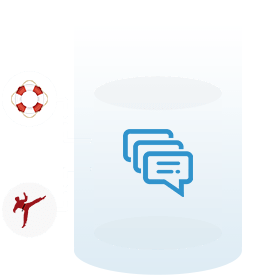
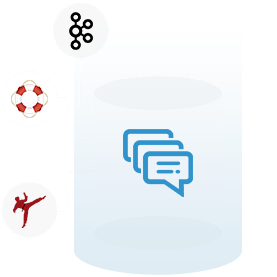
kafka changes added.

Changed region(s): [[0.231, 0.0289, 0.3466, 0.2022]]

diff --git a/en/message-queue-software/kafka/_index.md b/en/message-queue-software/kafka/_index.md
@@ -1,0 +1,29 @@
+---
+keywords: distributed message queue, open source message broker, message broker software, message queue software, best message queue, best message broker, queuing service
+title: Kafka | Open source distributed event streaming platform
+description: Kafka is an open source distributed real-time event streaming platform and a robust queue broker. It has the ability to handle a high volume of messages.
+singlepageh1title: Scala & Java based distributed event streaming platform
+singlepageh2title: Apache Kafka is an open source distributed event streaming platform. It is a robust queue broker and built as an internal messaging system developed by Linked-in
+Shortdescriptionlistingpage: Apache Kafka is a distributed message queue software written in Scala and Java languages. It is developed by Linked-in to handle 1.4 trillion messages in a day.
+linktitle: Kafka
+Imagetext: Free Message Queue Software
+draft: false
+weight: 1
+layout: "single"
+GithubLink: https://github.com/apache/kafka
+HomePage_TitleText: Simple and efficient open source task scheduler
+
+ListingPage_MenuImage_TitleText: Apache Kafka is an open source distributed event streaming platform
+ListingPage_MenuImage_AltText: Scala & Java based distributed event streaming platform
+ListingPage_Link_TitleText: Kafka is distributed event streaming platform to handle a high volume of messages. 
+
+SinglePage_HeaderImage_TitleText: Kafka  is an open source messaging system and a robust queue broker
+SinglePage_HeaderImage_AltText: Kafka  is an open source messaging system and a robust queue broker
+SinglePage_MenuImage_TitleText: Kafka  is an open source messaging system and a robust queue broker
+SinglePage_MenuImage_AltText: Kafka  is an open source messaging system and a robust queue broker
+
+---
+
+Kafka is an open source messaging system and a robust queue broker. It is distributed event streaming platform and has the ability to handle a high volume of messages. Kafka messages are stored on the disk and it allows you to send messages from one point to another seamlessly. Messages are replicated within the whole Kafka cluster to prevent unwanted operations from happening like any data loss. Kafka messaging platform built to handle real-time event streaming, pipe-lining and replaying of data for fast, scalable operations.
+
+Apache Kafka distributed message queue software is used by thousands of companies for high performance data pipelines and its integration with Apache Storm and Spark. Kafka offers high performance as compared to message and queue brokers like ActiveMQ and RabbitMQ etc. Apache Kafka is an alternative to a variety of enterprise messaging systems. It was built as an internal messaging system developed by Linked-in to handle 1.4 trillion messages in a day. It is a best and suitable platform for the implementation of Queues since it boosts performance by using sequential disk I/O operations. It is also a perfect choice for big data use cases because it can achieve high throughput with limited number of resources, i.e millions of messages per second. Kafka open source software has 19.4K GitHub stars and 10.3k GitHub forks.

diff --git a/en/message-queue-software/kafka/installation.md b/en/message-queue-software/kafka/installation.md
@@ -1,0 +1,41 @@
+---
+title: Installation Guide
+onpagelink: installation
+weight: 3
+
+---
+
+### **Installation Instructions**
+
+### Install Apache Kafka On Ubuntu
+
+This guide explains how to setup and Kafka. Below installation steps assume that all the depency packages of Kafka are installed and up to date on your system. Please follow below installation steps. Get kafka by downloading the latest release Kafka and extract it with commands:
+
+    tar -xzf kafka_2.13-2.8.0.tgz
+    cd kafka_2.13-2.8.0
+
+Next, start the kafka ENVIRONMENT. You local system environment must have Java 8+ installed. Execute the following commands in order to start all services in the correct order:
+
+    bin/zookeeper-server-start.sh config/zookeeper.properties
+
+Open another terminal session and dtart the Kafka broker service by:
+
+    bin/kafka-server-start.sh config/server.properties
+
+when all services have successfully installed, you will have a basic Kafka environment running and ready to access. You need to create a topic before writing your first event. Open another terminal session and run command:
+
+    bin/kafka-topics.sh --create --topic quickstart-events --bootstrap-server localhost:9092
+
+Now, run the console producer client to write a few separate events into the topic:
+
+    bin/kafka-console-producer.sh --topic quickstart-events --bootstrap-server localhost:9092
+
+Open another console terminal session and run the console consumer client to read the events you just created with:
+
+    bin/kafka-console-consumer.sh --topic quickstart-events --from-beginning --bootstrap-server localhost:9092
+
+You can continuously import/export your data into and out of Kafka. Use Ctrl-C to stop the Kafka broker. If you also want to delete any data from your local Kafka environment including any events you have created along the way then run the command:
+
+    rm -rf /tmp/kafka-logs /tmp/zookeeper
+
+Congratulations! You have successfully configured Apache Kafka platform on Ubuntu. Enjoy!

diff --git a/en/message-queue-software/kafka/faqs.md b/en/message-queue-software/kafka/faqs.md
@@ -1,0 +1,19 @@
+---
+title: FAQs
+onpagelink: faqs
+weight: 4
+
+---
+
+### **FAQs**
+
+### What is Apache Kafka used for?
+Kafka is an open source software which provides a framework for storing, reading and analysing streaming data. Being open source means that it is essentially free to use and has a large network of users and developers who contribute towards updates, new features and offering support for new users.
+### Is Apache Kafka free?
+Apache Kafka is free, and Confluent Cloud is very cheap for small use cases, about $1 a month to produce, store, and consume a GB of data.
+### Is Apache Kafka open source?
+Apache Kafka is an open-source distributed event streaming platform used by thousands of companies for high-performance data pipelines, streaming analytics, data integration, and mission-critical applications. The source code of Ceph application is available at [Github](https://github.com/apache/kafka).
+### What language is Kafka written in?
+Kafka started as a project in LinkedIn and was later open-sourced to facilitate its adoption. It is written in Scala and Java, and it is part of the open-source Apache Software Foundation.
+### Why Kafka is so fast?
+Compression & Batching of Data: Kafka batches the data into chunks which helps in reducing the network calls and converting most of the random writes to sequential ones. It's more efficient to compress a batch of data as compared to compressing individual messages.

diff --git a/en/message-queue-software/kafka/explore.md b/en/message-queue-software/kafka/explore.md
@@ -1,0 +1,15 @@
+---
+title: Explore
+onpagelink: explore
+weight: 5
+
+---
+
+### **Explore**
+
+In this article we discussed about Apache Kafka. To learn about other message queue (MQ) software, please visit following pages:
+
+*   **[Top 5 Open Source Message Queue (MQ) Software](https://blog.containerize.com/2021/07/09/top-5-open-source-message-queue-software-in-2021/)**
+*   **[Redis-backed queuing system for background processing](https://products.containerize.com/message-queue-software/resque/)**
+*   **[https://products.containerize.com/message-queue-software/sidekiq/](https://products.containerize.com/message-queue-software/sidekiq/)**
+

diff --git a/en/message-queue-software/kafka/features.md b/en/message-queue-software/kafka/features.md
@@ -1,0 +1,22 @@
+---
+title: Features
+onpagelink: features
+weight: 2
+
+---
+
+### **Features**
+
+Some of the key features of Apache Kafka are listed below:
+
+*   Scalability
+*   High-Volume
+*   Data Transformations
+*   Fault Tolerance
+*   Reliability
+*   Durability
+*   Performance
+*   Zero Downtime
+*   Extensibility
+*   Replication
+*   Open Source

diff --git a/en/message-queue-software/kafka/requirements.md b/en/message-queue-software/kafka/requirements.md
@@ -1,0 +1,15 @@
+---
+title: System Requirements
+onpagelink: requirements
+weight: 1
+
+---
+
+### **System Requirements**
+
+Requirements to setup Apache Kafka software include:
+
+*   Java 8+
+*   ZooKeeper
+*   Ubuntu 20.04 LTS
+*   Git
